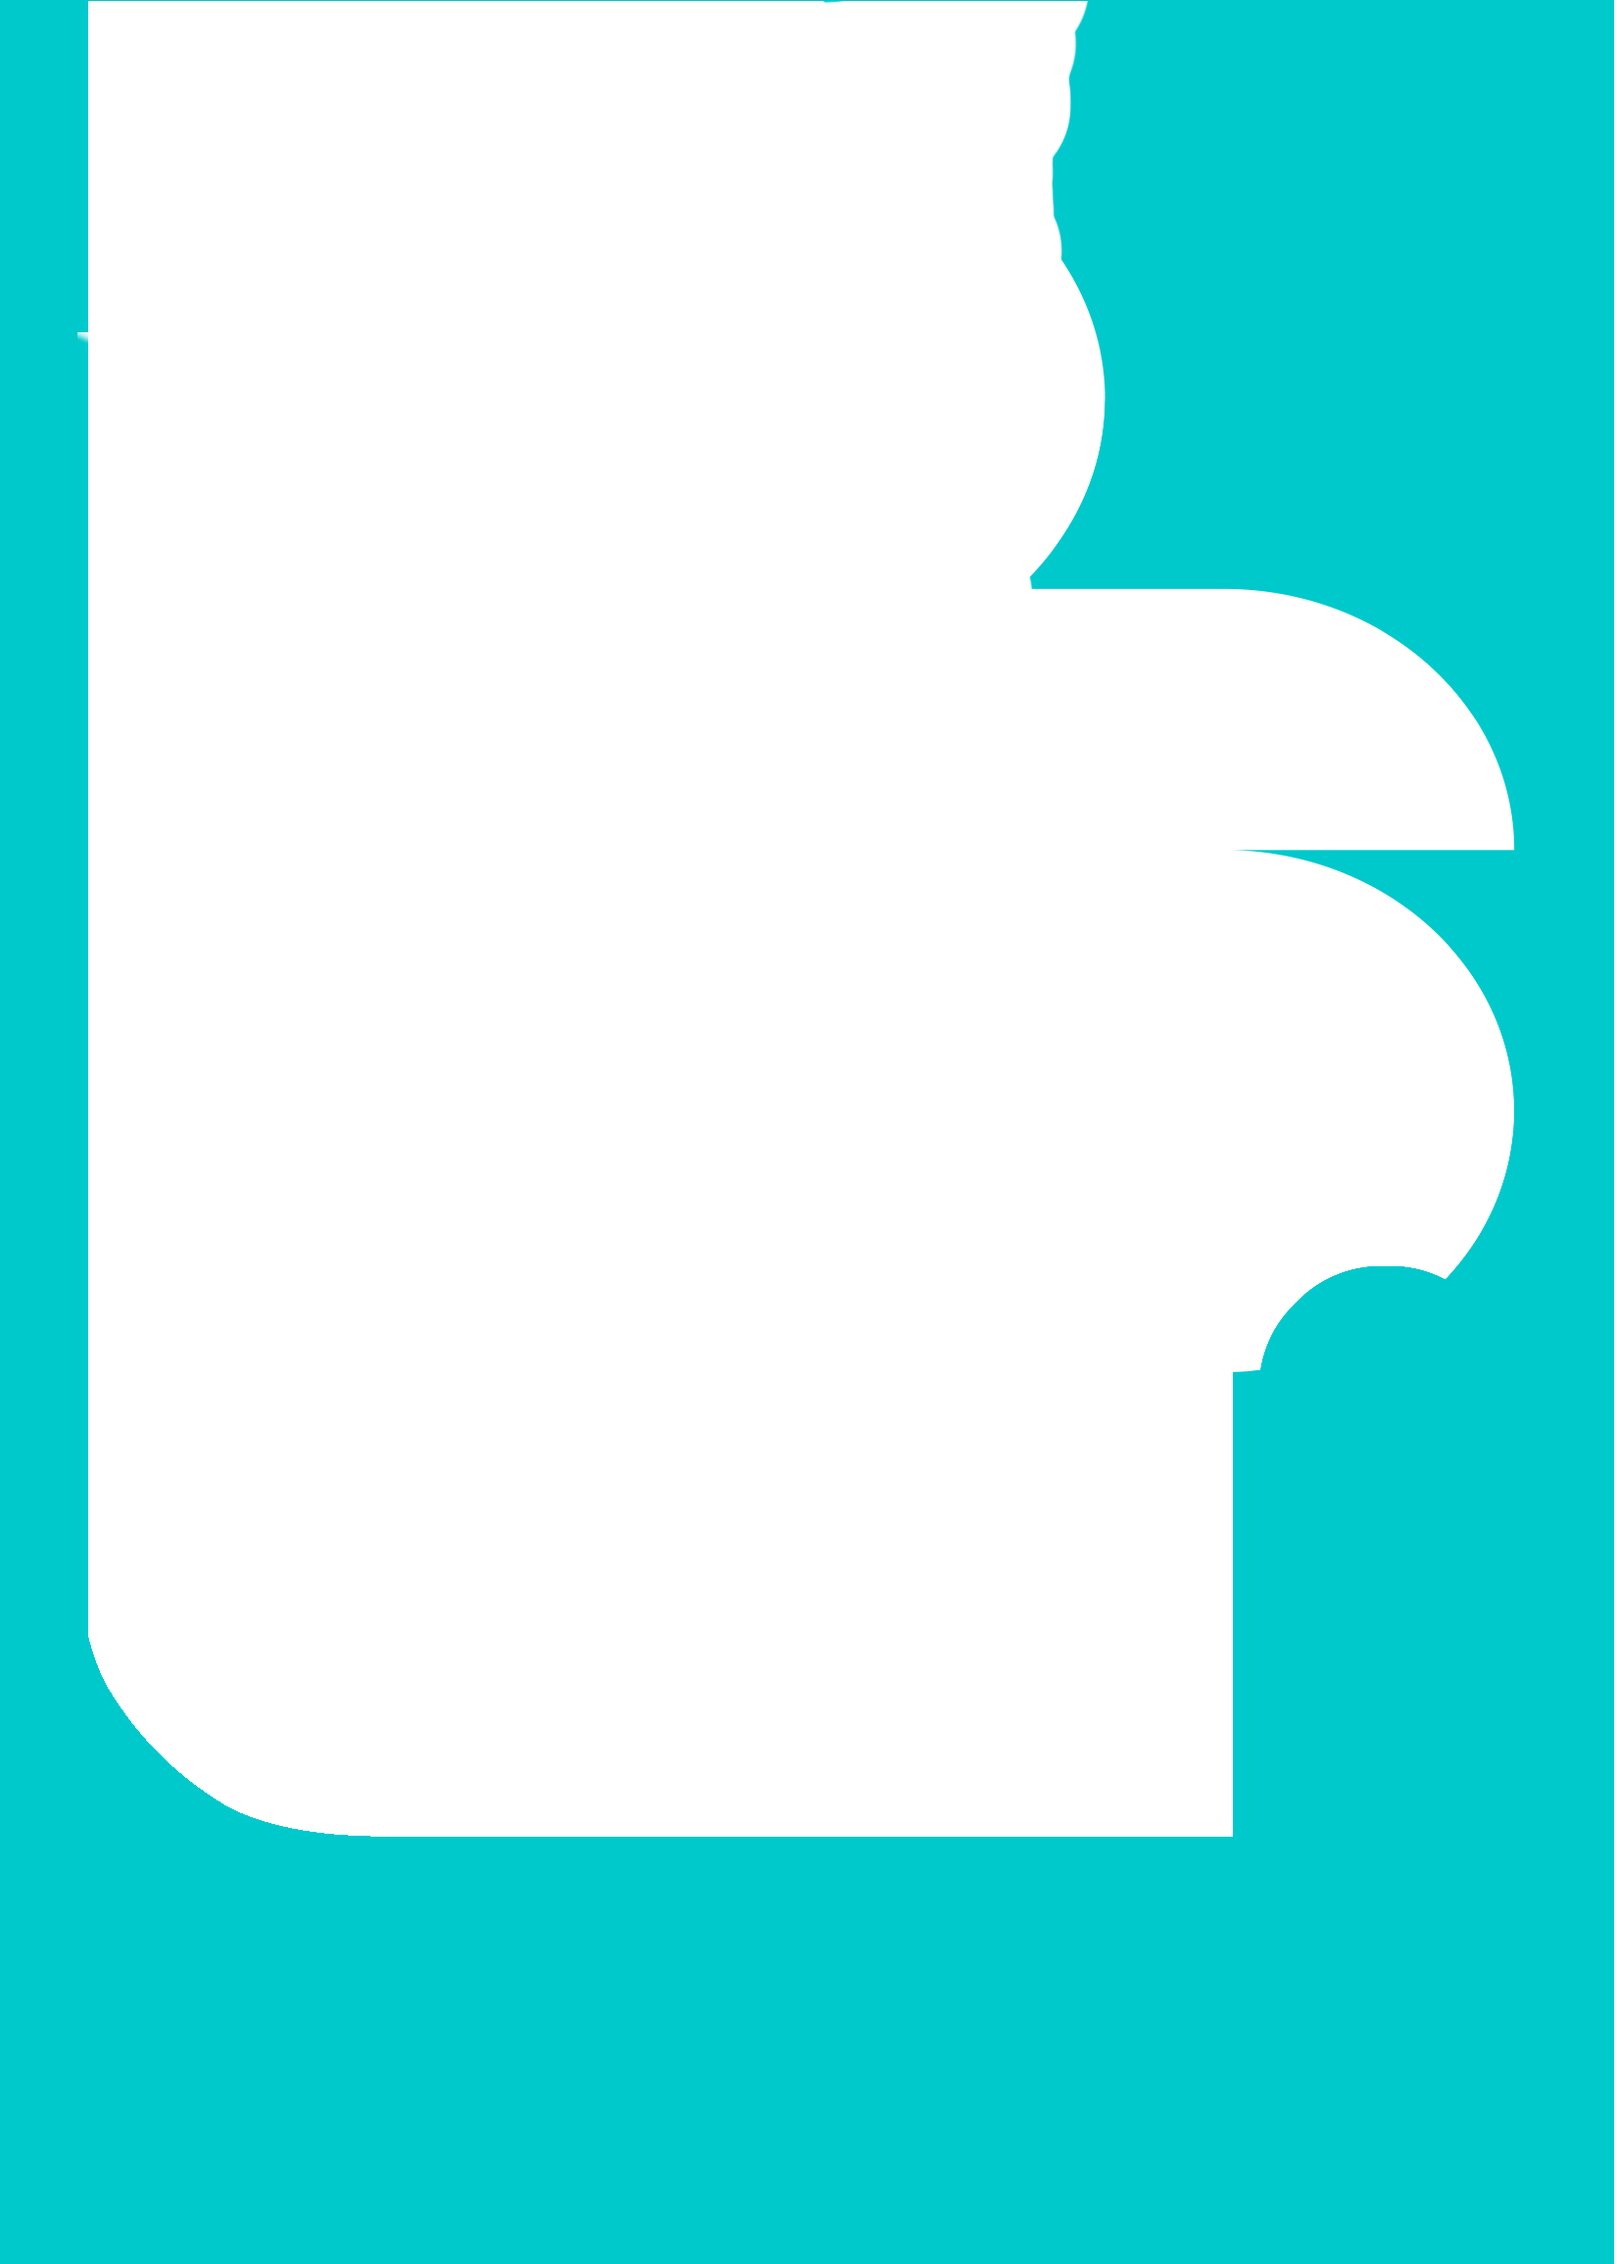
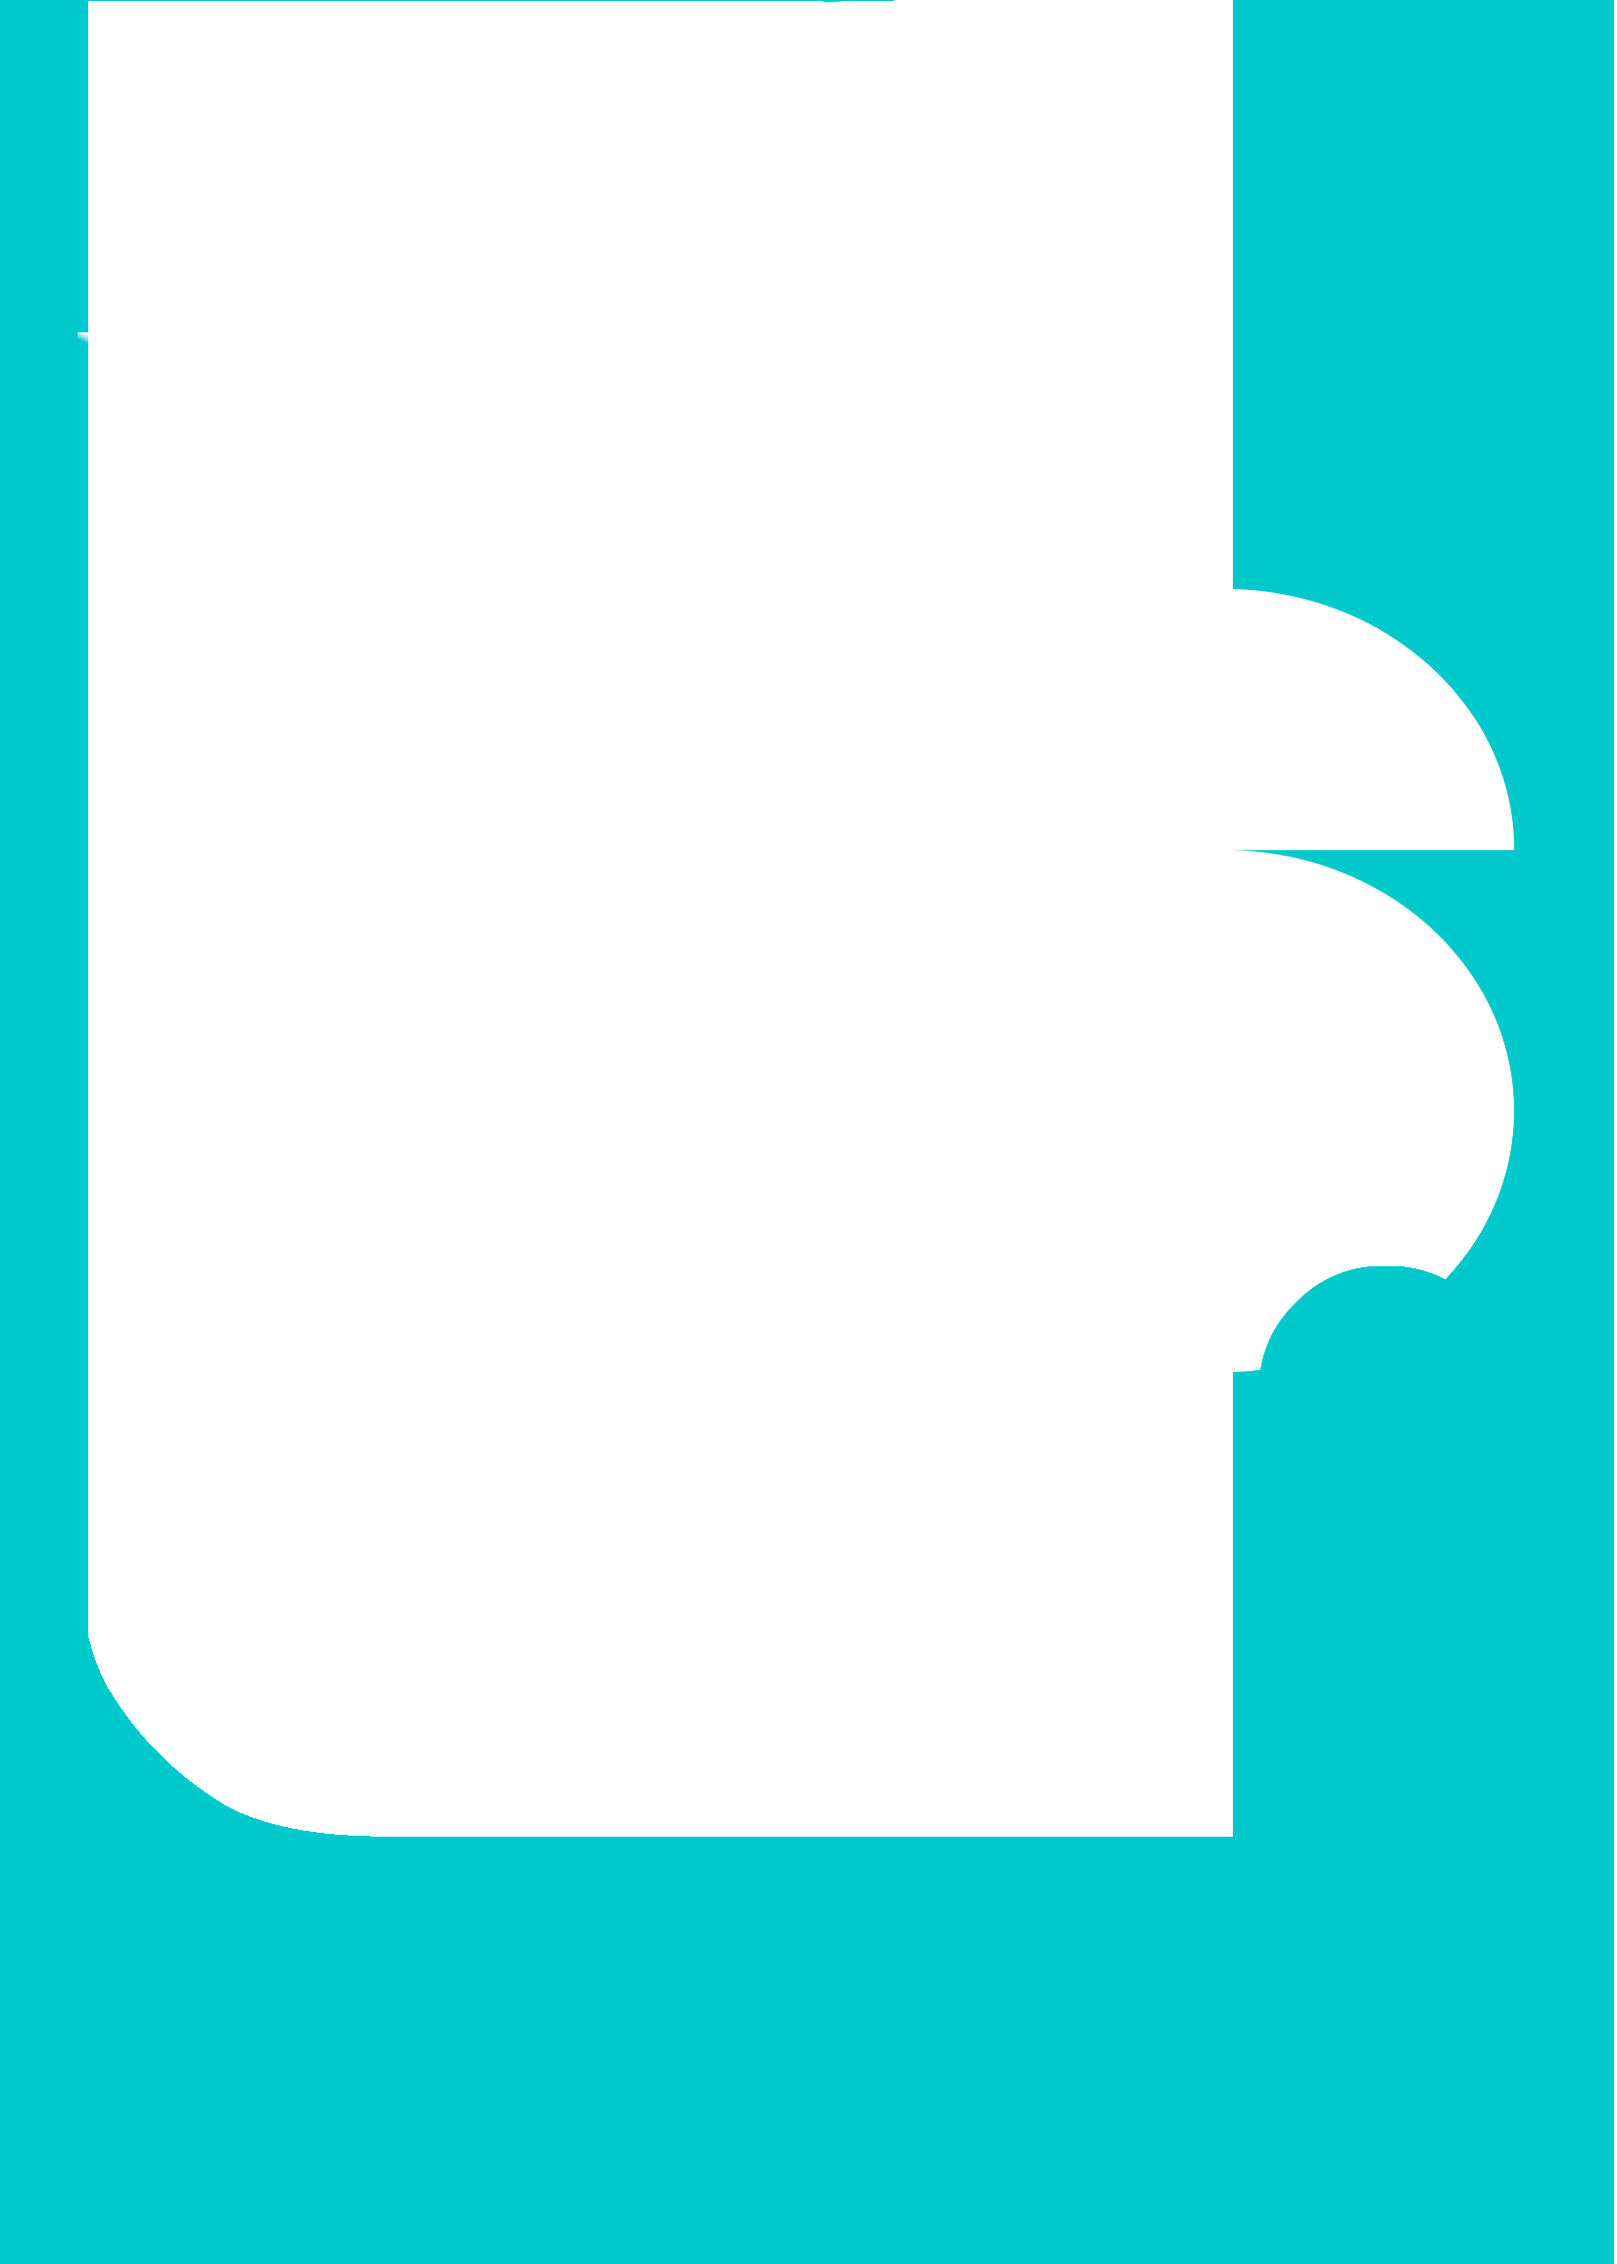
shirtalign actu

Changed region(s): [[0.6182, 0.0, 0.7727, 0.2805]]

diff --git a/frontend/Generador/shirt-align.js b/frontend/Generador/shirt-align.js
@@ -1,14 +1,21 @@
 'use strict';
 
 // ─────────────────────────────────────────────────────────────
-//  SHIRT ALIGN v5
+//  SHIRT ALIGN v6
+//  Cambios vs v5:
+//  · detectShirtNeckY: reemplaza detección por alpha (que falla
+//    con fondos negros) por detección por luminosidad RGB.
+//    Usa zona ANCHA (20-80%) para encontrar el inicio del hombro
+//    y zona ESTRECHA (44-56%) para encontrar el fondo del cuello.
+//  · detectFaceData: neckY offset 10% → 30% del bbox (más real).
+//  · align: face target 24% → 28% del alto del canvas (cara más grande).
 // ─────────────────────────────────────────────────────────────
 
 const ShirtAlign = (() => {
 
     const W = 1650, H = 2310;
     const MODELS_URL = '/frontend/assets/face-models';
-    let _ready = false;
+    let _ready   = false;
     let _loading = false;
 
     async function ensureLoaded() {
@@ -39,84 +46,91 @@ const ShirtAlign = (() => {
     ensureLoaded();
 
     // ── 1. Detectar cuello de la remera ──────────────────────────
-    // Dibuja el shirtImg en canvas propio con alpha=true
-    // Genera un perfil de alpha promedio por fila en zona central
-    // Busca el primer máximo local (hombros/tela) seguido de un mínimo
-    // (abertura del cuello) seguido de otro máximo (torso) → ese 2do máximo = cuello
+    //
+    // Funciona con imágenes de fondo NEGRO (sin alpha real) y también
+    // con imágenes con canal alpha transparente.
+    //
+    // Estrategia:
+    //   a) "Pixel de remera" = luminosidad > 25 (descarta negro puro y cuello oscuro)
+    //   b) Perfil ANCHO (20–80% del ancho): encuentra el inicio de los hombros
+    //   c) Perfil ESTRECHO (44–56% del ancho): el agujero del cuello es negro,
+    //      así que este perfil sube recién cuando la tela tapa el agujero → fondo del cuello
+    //   d) shirtNeckY = primer Y donde perfil estrecho supera el 20%
+    //
     function detectShirtNeckY(shirtImg) {
-        // Canvas EXPLÍCITAMENTE con alpha habilitado
-        const oc  = document.createElement('canvas');
-        oc.width  = W;
-        oc.height = H;
-        const octx = oc.getContext('2d', { alpha: true, willReadFrequently: true });
+        const oc    = document.createElement('canvas');
+        oc.width    = W;
+        oc.height   = H;
+        const octx  = oc.getContext('2d', { alpha: true, willReadFrequently: true });
         octx.clearRect(0, 0, W, H);
         octx.drawImage(shirtImg, 0, 0, W, H);
 
-        const imgData = octx.getImageData(0, 0, W, H);
-        const data    = imgData.data;
+        const { data } = octx.getImageData(0, 0, W, H);
 
-        // Columnas a muestrear (zona central 40-60%)
-        const xSamples = [];
-        for (let pct = 0.40; pct <= 0.60; pct += 0.02)
-            xSamples.push(Math.floor(W * pct));
-
-        // Promedio de alpha por fila
-        const alphaProfile = new Float32Array(H);
-        for (let y = 0; y < H; y++) {
-            let sum = 0;
-            for (const x of xSamples) sum += data[(y * W + x) * 4 + 3];
-            alphaProfile[y] = sum / xSamples.length;
+        // Pixel "es remera" si luminosidad > 25 o alpha > 25
+        // (cubre tanto fondos negros opacos como fondos transparentes)
+        function isShirt(idx) {
+            const r = data[idx], g = data[idx + 1], b = data[idx + 2], a = data[idx + 3];
+            const lum = 0.299 * r + 0.587 * g + 0.114 * b;
+            return lum > 25 || a > 25;
         }
 
-        // Suavizar el perfil (ventana 5px) para evitar ruido
-        const smoothed = new Float32Array(H);
-        const win = 5;
-        for (let y = 0; y < H; y++) {
-            let s = 0, cnt = 0;
-            for (let k = -win; k <= win; k++) {
-                const yk = y + k;
-                if (yk >= 0 && yk < H) { s += alphaProfile[yk]; cnt++; }
+        const SMOOTH_WIN = 15;
+
+        function buildProfile(x0frac, x1frac) {
+            const x0 = Math.floor(W * x0frac);
+            const x1 = Math.floor(W * x1frac);
+            const cols = x1 - x0;
+            const raw = new Float32Array(H);
+            for (let y = 0; y < H; y++) {
+                let cnt = 0;
+                for (let x = x0; x < x1; x++) {
+                    if (isShirt((y * W + x) * 4)) cnt++;
+                }
+                raw[y] = cnt / cols;
             }
-            smoothed[y] = s / cnt;
+            // suavizar
+            const sm = new Float32Array(H);
+            for (let y = 0; y < H; y++) {
+                let s = 0, n = 0;
+                for (let k = -SMOOTH_WIN; k <= SMOOTH_WIN; k++) {
+                    const yk = y + k;
+                    if (yk >= 0 && yk < H) { s += raw[yk]; n++; }
+                }
+                sm[y] = s / n;
+            }
+            return sm;
         }
 
-        // Debug: loguear el perfil cada 50px para entender la forma
-        for (let y = 0; y < H * 0.6; y += 50)
-            console.log('[ShirtAlign] profile Y=' + y + ' alpha=' + Math.round(smoothed[y]));
+        const wide   = buildProfile(0.20, 0.80);   // hombros
+        const narrow = buildProfile(0.44, 0.56);   // agujero del cuello
 
-        // Buscar patrón: subida (hombros) → bajada (abertura cuello) → subida (torso)
-        // Primero: encontrar dónde empieza la primera zona opaca (alpha > 30)
-        let firstOpaqueY = null;
-        for (let y = 0; y < H * 0.6; y++) {
-            if (smoothed[y] > 30) { firstOpaqueY = y; break; }
+        // a) Primer Y donde la zona ANCHA supera 5% → inicio de hombros
+        let firstShoulderY = null;
+        for (let y = 0; y < H * 0.8; y++) {
+            if (wide[y] > 0.05) { firstShoulderY = y; break; }
         }
-        if (firstOpaqueY === null) {
-            console.warn('[ShirtAlign] Remera completamente transparente en zona central');
+
+        if (firstShoulderY === null) {
+            console.warn('[ShirtAlign] No se detectaron hombros en la remera');
             return null;
         }
-        console.log('[ShirtAlign] Primera zona opaca Y=' + firstOpaqueY);
+        console.log('[ShirtAlign] Hombros detectados en Y=' + firstShoulderY);
 
-        // Desde firstOpaqueY, buscar el mínimo local (abertura del cuello)
-        // Un mínimo local = cuando alpha baja < 50 después de haber sido > 80
-        let wasOpaque = false;
-        let valleyStart = null;
-        for (let y = firstOpaqueY; y < H * 0.65; y++) {
-            if (smoothed[y] > 80) wasOpaque = true;
-            if (wasOpaque && smoothed[y] < 50 && valleyStart === null) {
-                valleyStart = y;
-            }
-            // Una vez en el valle, buscar cuándo sube de nuevo (= fondo del cuello)
-            if (valleyStart !== null && smoothed[y] > 60 && y > valleyStart + 3) {
+        // b) Desde los hombros, buscar el fondo del cuello:
+        //    primer Y donde la zona ESTRECHA supera 20% (tela tapa el agujero)
+        for (let y = firstShoulderY; y < H * 0.75; y++) {
+            if (narrow[y] > 0.20) {
                 console.log('[ShirtAlign] ✓ Fondo cuello Y=' + y +
-                    ' (valle desde Y=' + valleyStart + ')');
+                    ' (narrow=' + narrow[y].toFixed(3) + ')');
                 return y;
             }
         }
 
-        // Si no encontró valle → remera sin cuello visible (polo cerrado, etc.)
-        // Usar firstOpaqueY + offset empírico del 8% del canvas
-        const fallback = firstOpaqueY + Math.floor(H * 0.08);
-        console.log('[ShirtAlign] Sin valle, fallback cuello Y=' + fallback);
+        // Fallback: si el cuello no tiene agujero visible (remera cerrada)
+        // usar el primer hombro + 12% del canvas
+        const fallback = firstShoulderY + Math.floor(H * 0.12);
+        console.log('[ShirtAlign] Sin agujero de cuello, fallback Y=' + fallback);
         return fallback;
     }
 
@@ -153,8 +167,9 @@ const ShirtAlign = (() => {
         const jawBottom = pts.slice(6, 11);
         const avgJawY   = jawBottom.reduce((s, p) => s + p.y, 0) / jawBottom.length;
 
-        // Cuello = mandíbula inferior + 10% de la altura del bbox
-        const neckY   = avgJawY + box.height * 0.10;
+        // Cuello = mandíbula + 30% de la altura del bbox
+        // (era 10%, que quedaba demasiado alto — el cuello real está ~1/4 más abajo)
+        const neckY   = avgJawY + box.height * 0.30;
         const centerX = pts.slice(0, 17).reduce((s, p) => s + p.x, 0) / 17;
 
         console.log('[ShirtAlign] Cara h=' + Math.round(box.height) +
@@ -178,11 +193,12 @@ const ShirtAlign = (() => {
 
         const photoW = photoImg.naturalWidth || photoImg.width;
 
-        // Escala: cara ocupa ~24% del alto del canvas
-        const newPhotoScale = Math.min(Math.max((H * 0.24 / face.faceHeight) * 40, 40), 500);
+        // Escala: la cara ocupa ~28% del alto del canvas
+        // (era 24%, que dejaba la cara demasiado pequeña)
+        const newPhotoScale = Math.min(Math.max((H * 0.28 / face.faceHeight) * 40, 40), 500);
         const sc            = newPhotoScale / 40;
 
-        // Y: cuello persona → cuello remera
+        // Y: alinear cuello de la persona con el cuello de la remera
         const newPhotoY = shirtNeckY - face.neckY * sc;
 
         // X: centrar cara horizontalmente

diff --git a/frontend/Generador/edition-2026.js b/frontend/Generador/edition-2026.js
@@ -212,9 +212,9 @@ const Edition2026 = {
             ctx.textBaseline = 'alphabetic';
             ctx.fillStyle    = 'transparent';
             ctx.strokeStyle  = 'rgba(255,255,255,1)';
-            ctx.lineWidth    = 8.58;
-            ctx.strokeText(l, W - 207, 1729 + i * 178);
-            ctx.fillText(l, W - 207, 1729 + i * 178);
+            ctx.lineWidth    = 8.00;
+            ctx.strokeText(l, W - 207, 1729 + i * 175);
+            ctx.fillText(l, W - 207, 1729 + i * 175);
         });
         ctx.restore();
 
